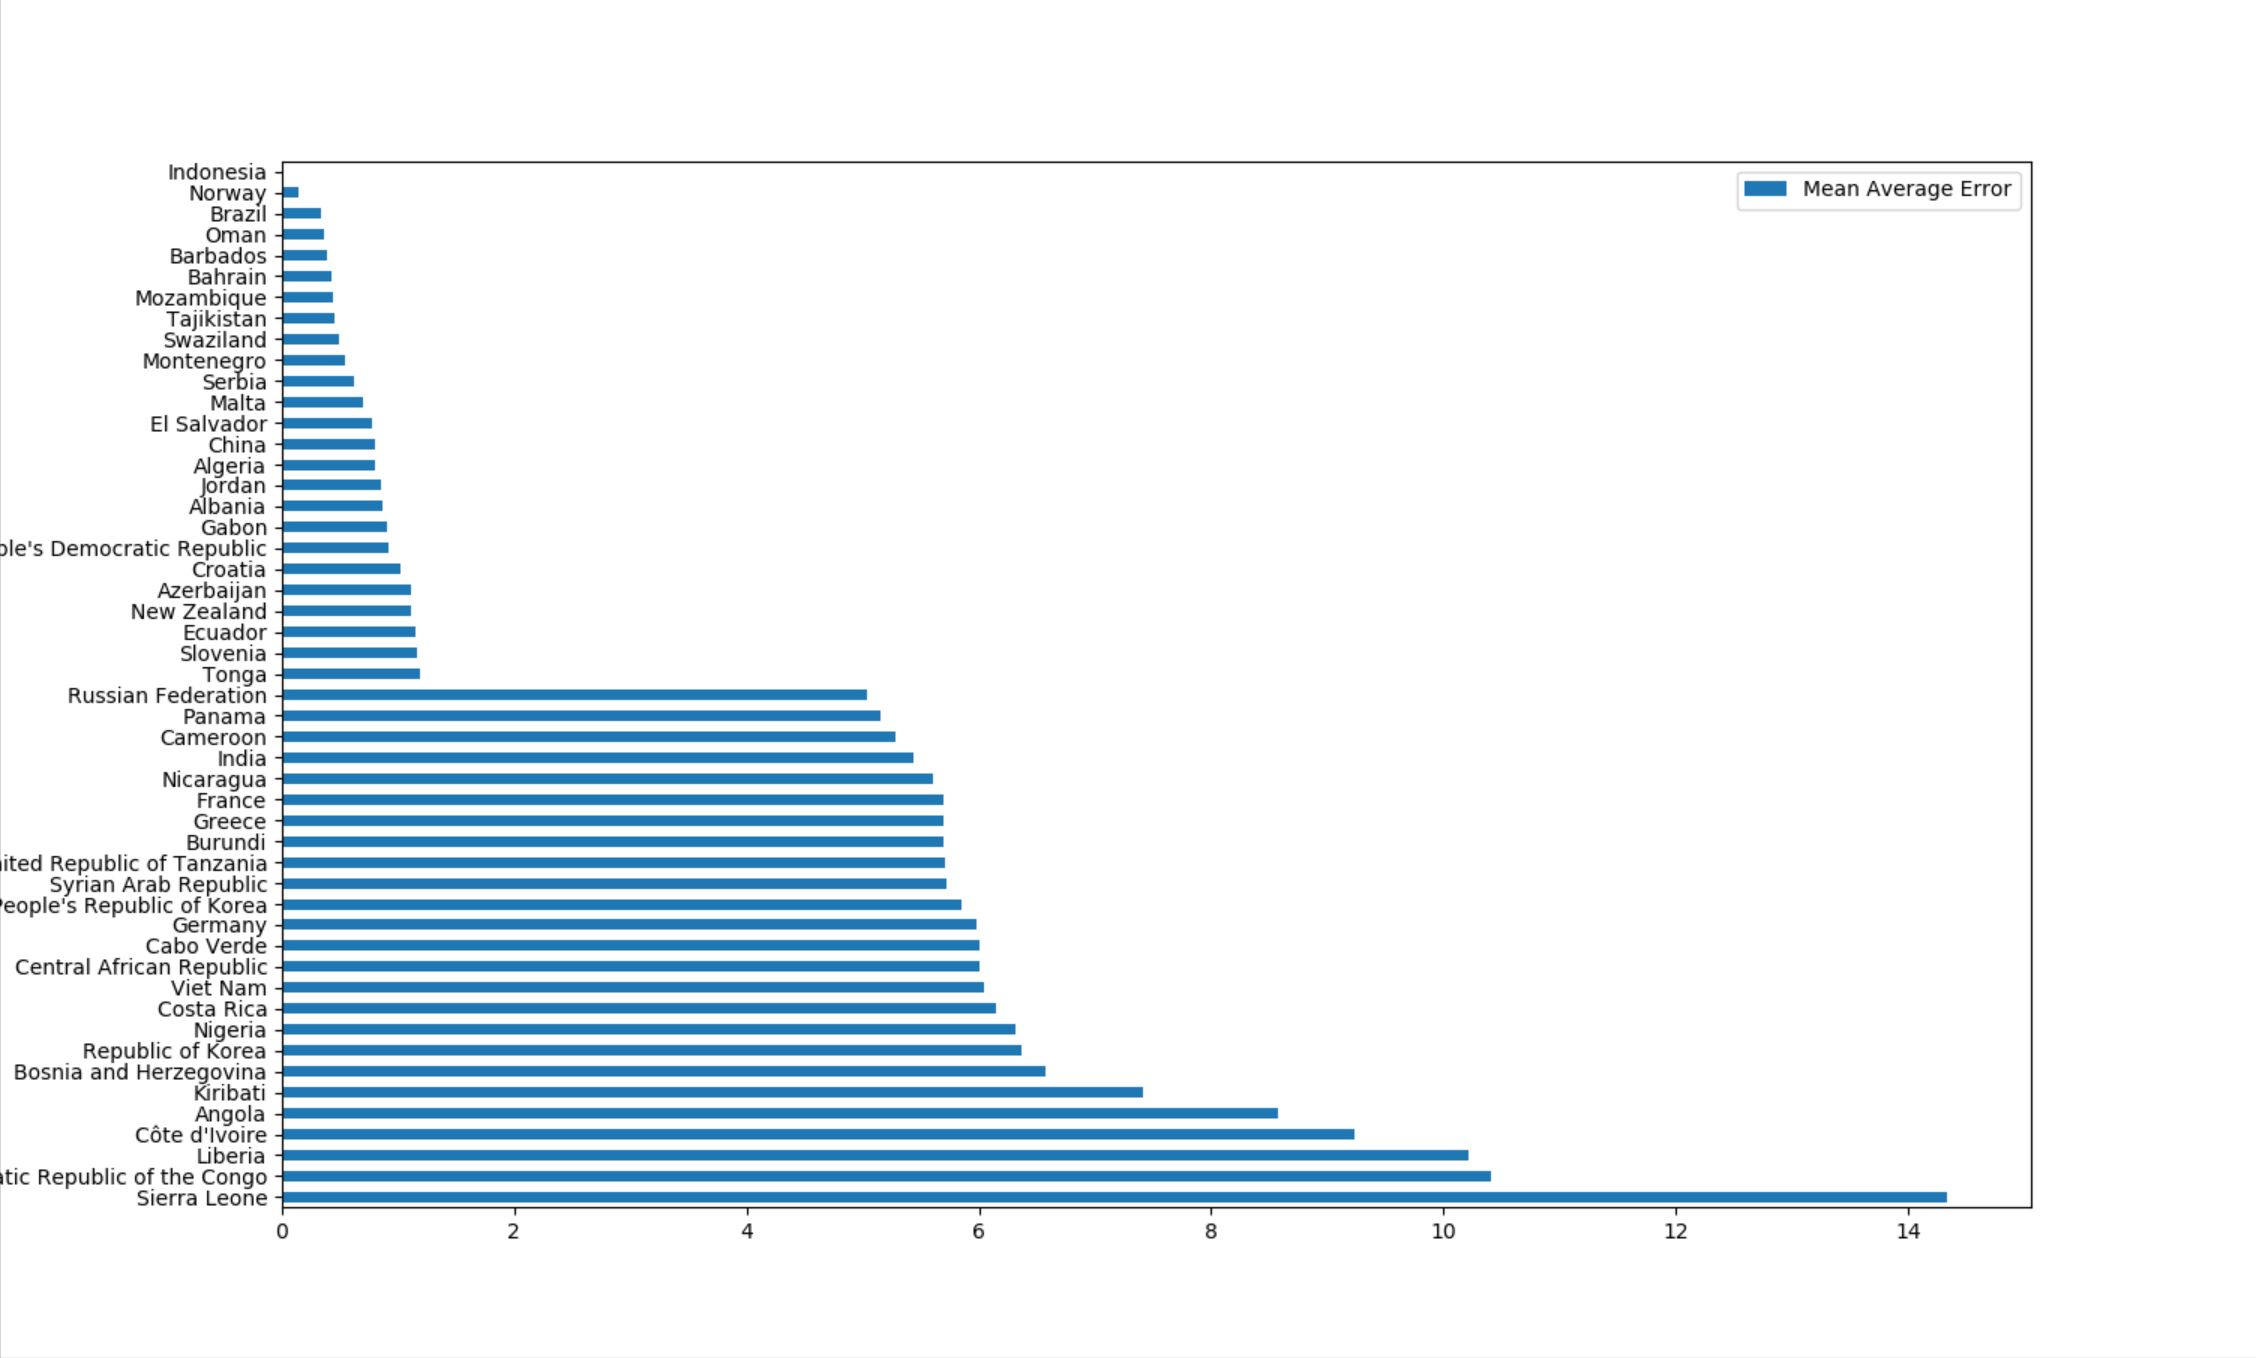
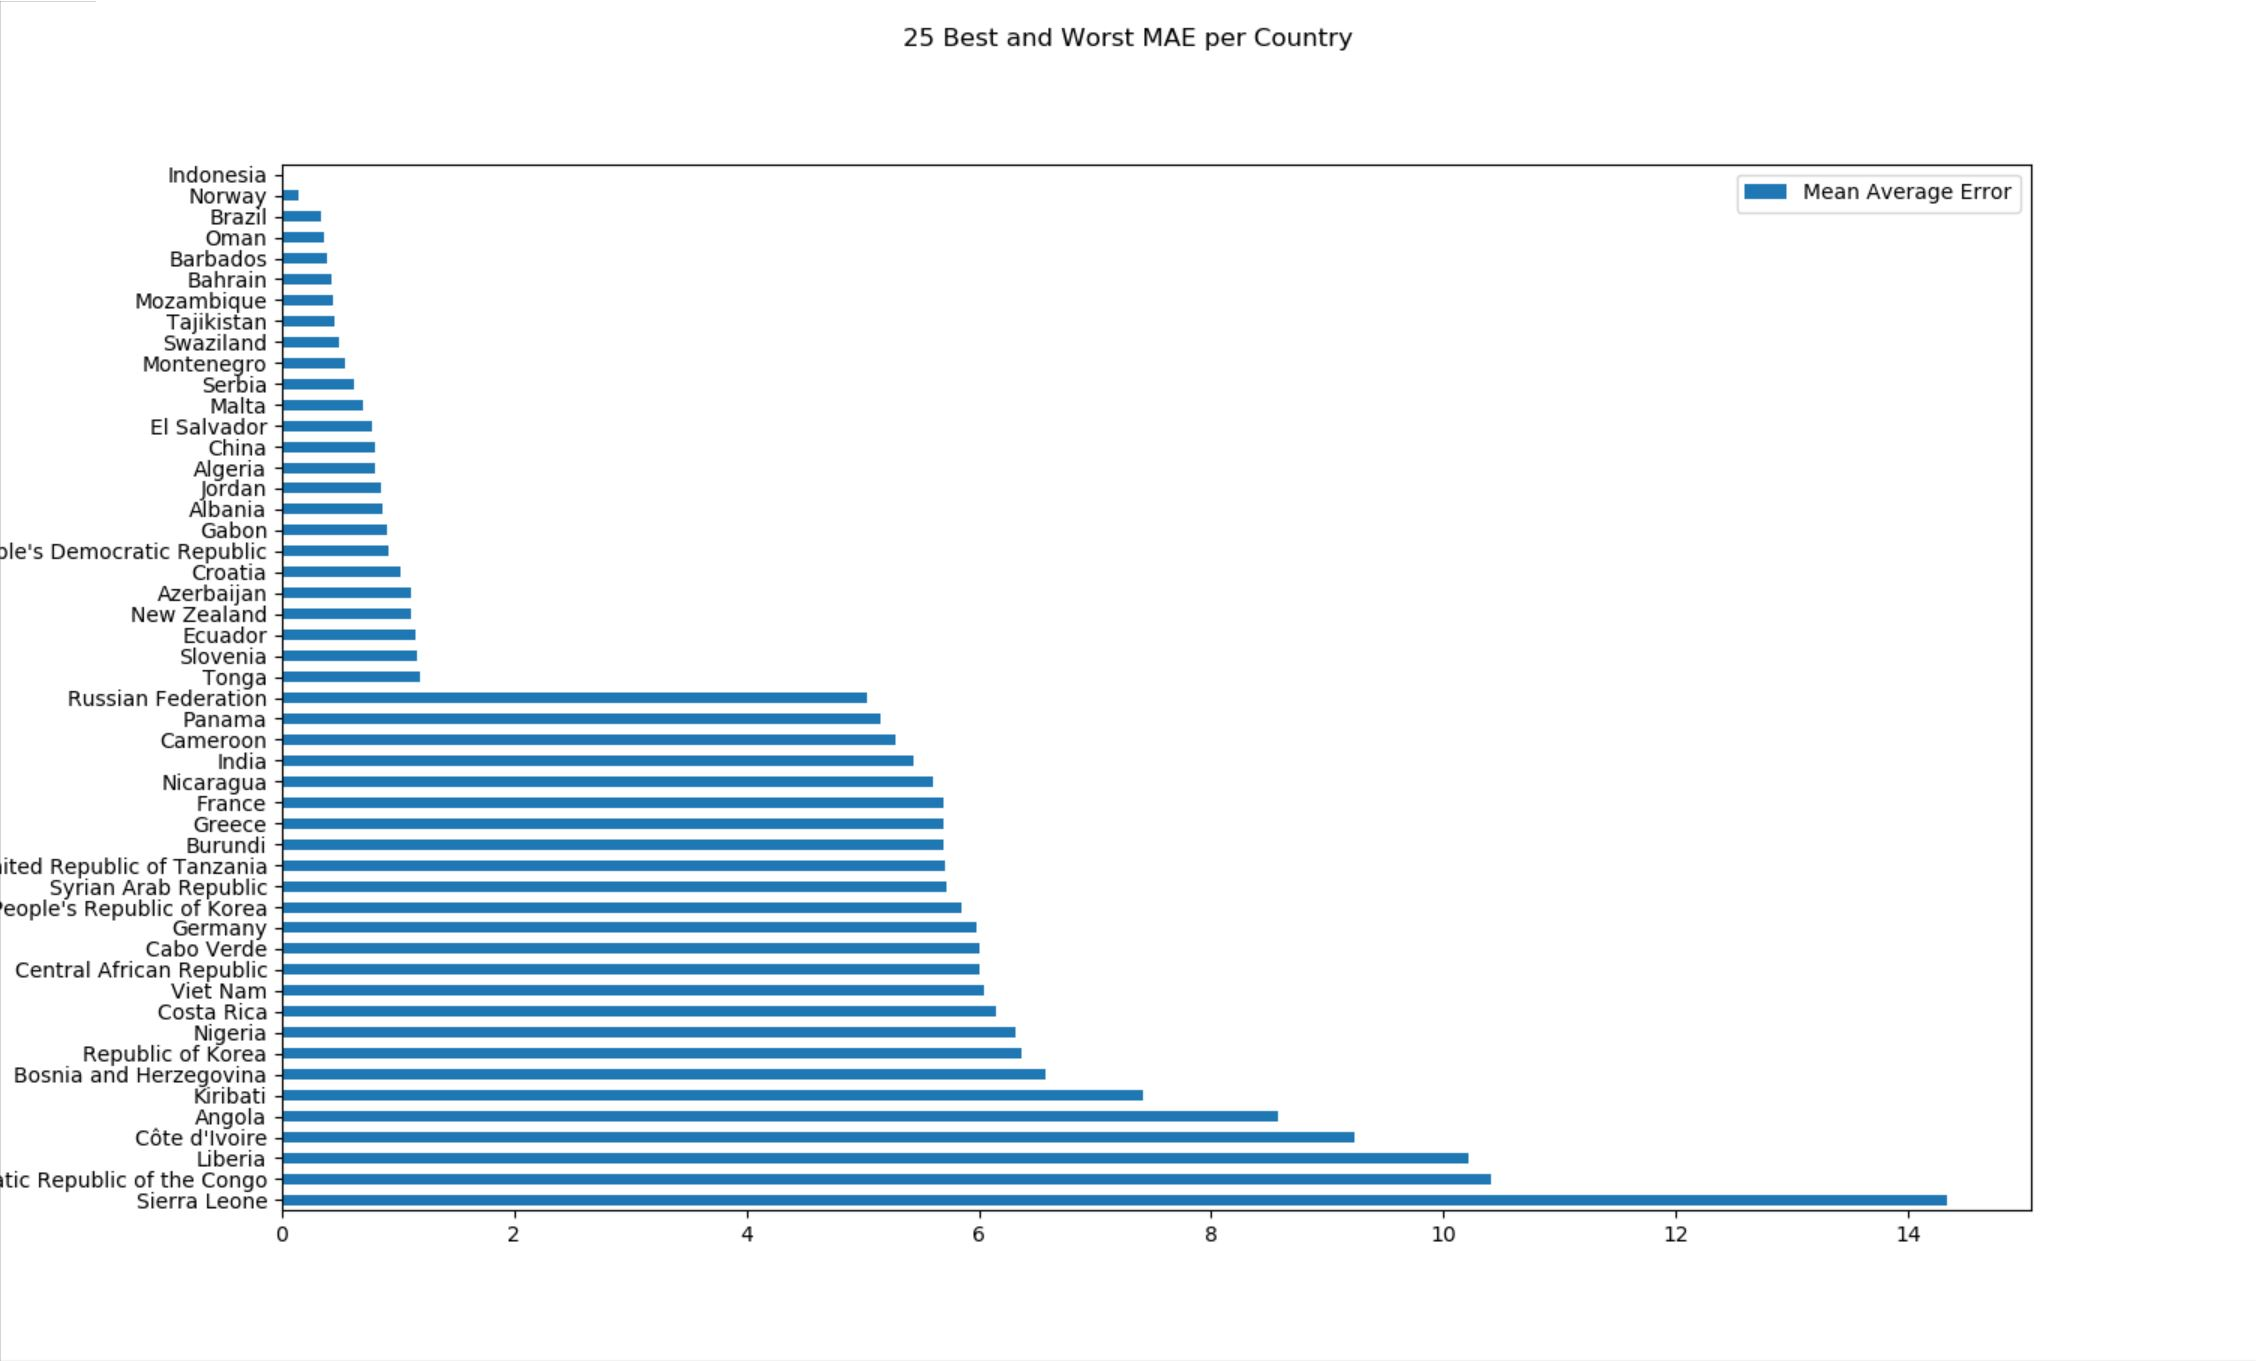
Making more presentable

Changed region(s): [[0.0, 0.0928, 0.8998, 0.8969], [0.4034, 0.0, 0.5895, 0.0309]]

diff --git a/regression/LEregression.py b/regression/LEregression.py
@@ -1,11 +1,11 @@
 import matplotlib.pyplot as plt
 import pandas as pd
-import seaborn as sns
 import numpy as np
 from sklearn.model_selection import train_test_split
 from sklearn import linear_model
 from sklearn.linear_model import LinearRegression
 from sklearn import metrics
+from sklearn.model_selection import cross_val_predict
 
 
 def compareCountries(X_columns, Y):
@@ -66,31 +66,35 @@ def compareCountries(X_columns, Y):
     df.sort_values(by=['Mean Average Error'], ascending=False, inplace=True)
     df = df.iloc[np.r_[0:25, -25:0]]
     df.plot(kind='barh', figsize=(50, 100))
+    plt.suptitle("25 Best and Worst MAE per Country")
     plt.show()
 
 
-def myRegression(X_columns, Y):
+def myRegression(X_columns, Y, coeff=0):
 
     X = data[X_columns].values
-
+                ############### 2.a Splitting training and test data ###############
     X_train, X_test, Y_train, Y_test = train_test_split(X, Y, test_size=0.2, random_state=0)
 
     reg = LinearRegression()
     reg.fit(X_train, Y_train)
 
     Y_pred = reg.predict(X_test)
-    df = pd.DataFrame({'Actual': Y_test, 'Predicted': Y_pred})
+    # df = pd.DataFrame({'Actual': Y_test, 'Predicted': Y_pred})
 
-    print("Regression model output(first 25 variables): ")
-    print()
-    print(df.head(25))
+    # print("Regression model output(first 25 variables): ")
+    # print()
+    # print(df.head(25))
 
     mae = metrics.mean_absolute_error(Y_test, Y_pred)
     mse = metrics.mean_squared_error(Y_test, Y_pred)
     rmse = np.sqrt(metrics.mean_squared_error(Y_test, Y_pred))
 
-    coeff_df = pd.DataFrame(reg.coef_, X_columns, columns=['Coefficient'])
-    print(coeff_df)
+    if coeff:
+        coeff_df = pd.DataFrame(reg.coef_, X_columns, columns=['Coefficient'])
+        print()
+        print("Regression coefficients")
+        print(coeff_df)
 
     return [mae, mse, rmse]
 
@@ -104,7 +108,6 @@ def testalpha(X_columns, Y, lasso):    # Tests multiple alpha values on Ridge an
     maelist = []
     mselist = []
     rmselist = []
-    #avalues = [0.1, 0.5, 1.0, 5.0, 10.0, 13.0]
     avalues = [4.6, 5.0, 10.0, 13.0, 20.0, 50.0, 100.0, 300.0, 1000.0, 2000.0]
 
     errorstats = []
@@ -134,12 +137,24 @@ def testalpha(X_columns, Y, lasso):    # Tests multiple alpha values on Ridge an
     df.set_index('Alpha value:', inplace=True)
     print(df)
 
-    # print("Ridge Regression model output(first 25 variables): ")
-    # print()
-    # print(df.head(25))
 
-    # coeff_df = pd.DataFrame(reg.coef_, X_columns, columns=['Coefficient'])
-    # print(coeff_df)
+def cross_validate(X_columns, Y):
+    X = data[X_columns].values
+
+    X_train, X_test, Y_train, Y_test = train_test_split(X, Y, test_size=0.2, random_state=0)
+
+    reg = LinearRegression()
+    model = reg.fit(X_train, Y_train)
+
+    pred = cross_val_predict(model, X, Y, cv=6)
+
+
+    mae = metrics.mean_absolute_error(Y, pred)
+    mse = metrics.mean_squared_error(Y, pred)
+    rmse = np.sqrt(metrics.mean_squared_error(Y, pred))
+
+    return [mae, mse, rmse]
+
 
 
 data = pd.read_csv('Life Expectancy Data.csv')
@@ -163,7 +178,7 @@ Y = data['Life expectancy '].values
 
 print()
 print("------------ Model with all variables ------------")
-errorstats.append(myRegression(X_columns, Y))
+errorstats.append(myRegression(X_columns, Y, 1))
 
 
 X_columns = ['Status', 'Adult Mortality', 'infant deaths',
@@ -172,20 +187,18 @@ X_columns = ['Status', 'Adult Mortality', 'infant deaths',
           ' HIV/AIDS', 'GDP', ' thinness  1-19 years', ' thinness 5-9 years',
           'Income composition of resources', 'Schooling']
 
-print()
-print("------------ Model with population dropped ------------")
+#print("------------ Model with population dropped ------------")
 errorstats.append(myRegression(X_columns, Y))
 
 
-X_columns = ['Status', 'Adult Mortality', 'infant deaths',
+Best_X_columns = ['Status', 'Adult Mortality', 'infant deaths',
           'Alcohol', 'percentage expenditure', 'Hepatitis B',
           ' BMI ', 'under-five deaths ', 'Polio', 'Total expenditure', 'Diphtheria ',
           ' HIV/AIDS', ' thinness  1-19 years', ' thinness 5-9 years',
           'Income composition of resources', 'Schooling']
 
-print()
-print("------------ Dropping Measles, GDP ------------")
-errorstats.append(myRegression(X_columns, Y))
+#print("------------ Dropping Measles, GDP ------------")
+errorstats.append(myRegression(Best_X_columns, Y))
 
 
 X_columns = ['Status', 'Adult Mortality', 'infant deaths',
@@ -194,8 +207,7 @@ X_columns = ['Status', 'Adult Mortality', 'infant deaths',
           ' HIV/AIDS', ' thinness  1-19 years', ' thinness 5-9 years',
           'Income composition of resources', 'Schooling']
 
-print()
-print("------------ Dropping percentage expenditure ------------")
+# print("------------ Dropping percentage expenditure ------------")
 errorstats.append(myRegression(X_columns, Y))
 
 
@@ -212,8 +224,17 @@ for es in errorstats:
 df = pd.DataFrame({'Variables Dropped:': rowlist, 'MAE': maelist,
                    'MSE': mselist, 'RMSE': rmselist})
 df.set_index('Variables Dropped:', inplace=True)
-print("------------ Results ------------")
+print()
+print("------------ Model Error Comparison ------------")
 print(df)
+print()
+print("Dropping Population, Measles, and GDP provide the best model")
+
+
+myRegression(Best_X_columns, Y, 1)
+print()
+print("Shown above are the coefficients for my best model")
+
 
 
 X_columns = ['Country', 'Status', 'Adult Mortality', 'infant deaths',
@@ -223,39 +244,34 @@ X_columns = ['Country', 'Status', 'Adult Mortality', 'infant deaths',
           'Income composition of resources', 'Schooling']
 
 print()
-# ------------ Testing Country Accuracy ------------
+# ------------ 2.C) Testing Country Accuracy ------------
+
 compareCountries(X_columns, Y)
 
 
-X_columns = ['Status', 'Adult Mortality', 'infant deaths',
-          'Alcohol', 'percentage expenditure', 'Hepatitis B',
-          ' BMI ', 'under-five deaths ', 'Polio', 'Total expenditure', 'Diphtheria ',
-          ' HIV/AIDS', ' thinness  1-19 years', ' thinness 5-9 years',
-          'Income composition of resources', 'Schooling']
 
 print()
 print("------------ Ridge Regression ------------")
-testalpha(X_columns, Y, 0)
+testalpha(Best_X_columns, Y, 0)
 
 print()
 print("------------ Lasso Regression ------------")
-testalpha(X_columns, Y, 1)
+testalpha(Best_X_columns, Y, 1)
 
 
-# plt.show()
+errors = cross_validate(Best_X_columns, Y)
 
-# plt.figure(figsize=(15, 10))
-# plt.tight_layout()
-# sns.distplot(data['Life expectancy '])
-# plt.show()
+maelist = [errors[0], errorstats[2][0]]
+mselist = [errors[1], errorstats[2][0]]
+rmselist = [errors[2], errorstats[2][0]]
 
+modellist = ["Cross validated", "My model"]
 
-# coeff_df = pd.DataFrame(reg.coef_, X_columns, columns=['Coefficient'])
-# print(coeff_df)
+df = pd.DataFrame({'Model': modellist, 'MAE': maelist,
+                   'MSE': mselist, 'RMSE': rmselist})
+df.set_index('Model', inplace=True)
 
+print()
+print(df)
 
-# df.head(25).plot(kind='bar', figsize=(10, 8))
-# plt.grid(which='major', linestyle='-', linewidth='0.5', color='green')
-# plt.grid(which='minor', linestyle=':', linewidth='0.5', color='black')
-# plt.show()
 
